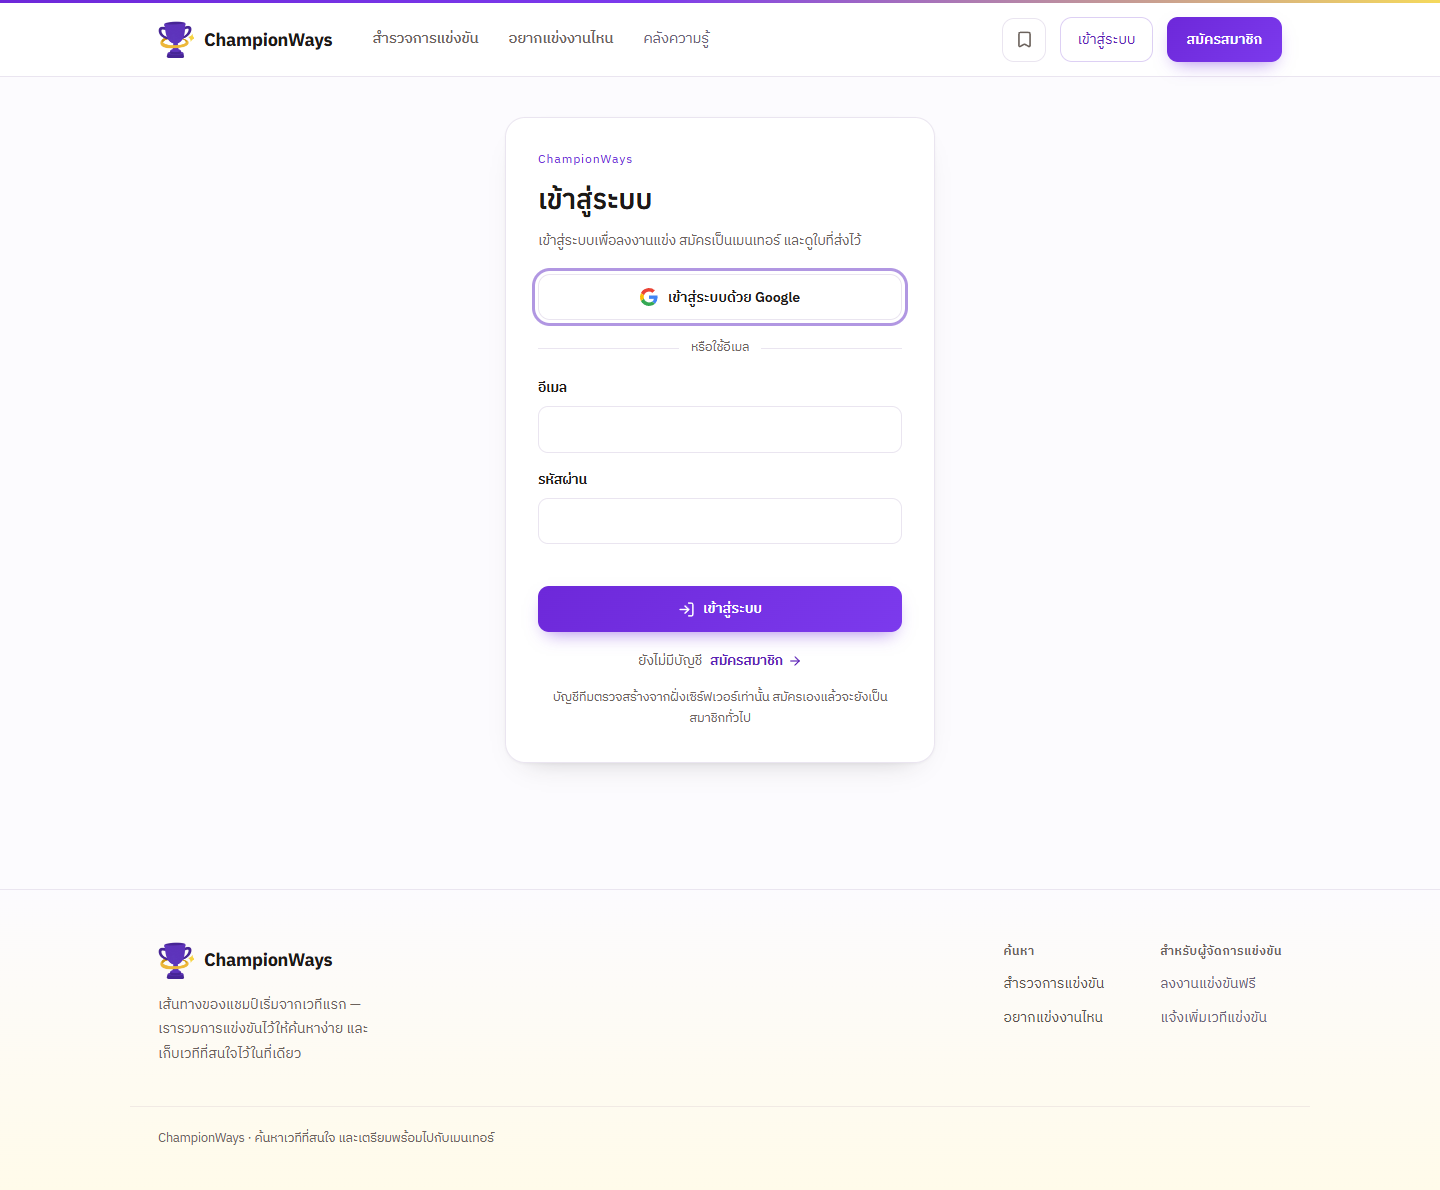
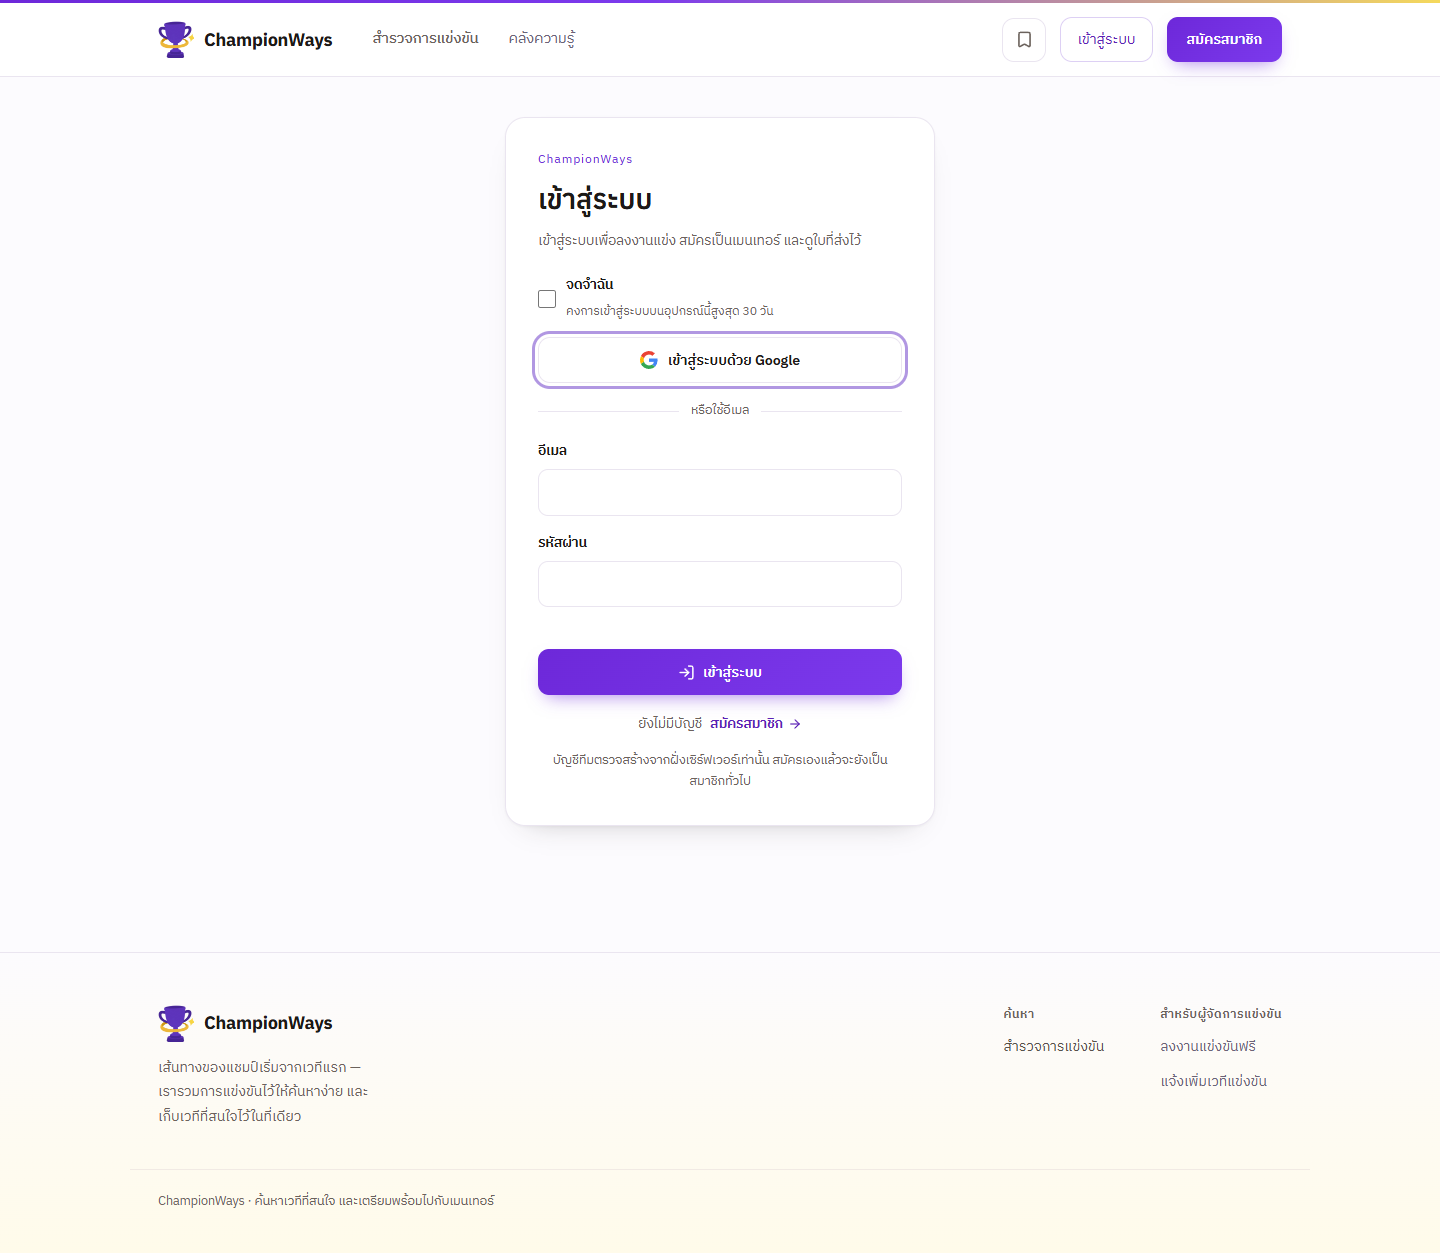
feat: add remember me for password and Google sign-in

diff --git a/server/routes/auth.ts b/server/routes/auth.ts
@@ -15,7 +15,7 @@ import { safeNext } from '../../src/lib/safe-next.js';
 import { hashPassword, passwordProblem, verifyPassword, wasteTime } from '../lib/password.js';
 import {
   clearSessionCookie, createSession, destroyAllSessions, destroySession, pruneSessions,
-  sessionIdFrom, setSessionCookie,
+  sessionIdFrom, setSessionCookie, sessionRemembers,
 } from '../lib/session.js';
 import { files as filesTable } from '../db/schema.js';
 import { fileUrl } from '../lib/files.js';
@@ -42,6 +42,7 @@ const credentials = z.object({
 const signupBody = credentials.extend({
   name: z.string().trim().min(1, 'กรอกชื่อที่ใช้แสดง').max(80),
 });
+const loginBody = credentials.extend({ remember: z.boolean().default(false) });
 
 /** รูปบัญชีที่ส่งออกไปหน้าเว็บ ไม่มีแฮชรหัสผ่านและรหัส Google ปนไปด้วย */
 function publicUser(row: typeof users.$inferSelect) {
@@ -93,7 +94,7 @@ auth.post('/signup', async (c) => {
 });
 
 auth.post('/login', async (c) => {
-  const parsed = credentials.safeParse(await c.req.json().catch(() => ({})));
+  const parsed = loginBody.safeParse(await c.req.json().catch(() => ({})));
   if (!parsed.success) throw new HTTPException(400, { message: firstIssue(parsed.error) });
   const { email, password } = parsed.data;
 
@@ -111,8 +112,8 @@ auth.post('/login', async (c) => {
   }
 
   await pruneSessions();
-  const session = await createSession(found.id);
-  setSessionCookie(c, session.id, session.expiresAt);
+  const session = await createSession(found.id, parsed.data.remember);
+  setSessionCookie(c, session.id, session.expiresAt, parsed.data.remember);
   return c.json({ user: publicUser(found) });
 });
 
@@ -244,9 +245,10 @@ auth.post('/password', requireUser, async (c) => {
 
   /* เปลี่ยนรหัสผ่านแล้วต้องเตะอุปกรณ์อื่นออก ไม่อย่างนั้นคนที่แอบใช้บัญชีอยู่จะยังอยู่ต่อได้
      แล้วออกคุกกี้ใหม่ให้เครื่องที่เพิ่งเปลี่ยน จะได้ไม่ต้องล็อกอินซ้ำทันที */
+  const remember = await sessionRemembers(sessionIdFrom(c));
   await destroyAllSessions(user.id);
-  const session = await createSession(user.id);
-  setSessionCookie(c, session.id, session.expiresAt);
+  const session = await createSession(user.id, remember);
+  setSessionCookie(c, session.id, session.expiresAt, remember);
 
   return c.json({ user: publicUser(updated) });
 });
@@ -256,6 +258,7 @@ auth.post('/password', requireUser, async (c) => {
 const STATE_COOKIE = 'cw_oauth_state';
 const VERIFIER_COOKIE = 'cw_oauth_verifier';
 const NEXT_COOKIE = 'cw_oauth_next';
+const REMEMBER_COOKIE = 'cw_oauth_remember';
 const shortCookie = () => ({
   httpOnly: true, sameSite: 'Lax' as const, secure: env.isProduction, path: '/', maxAge: 600,
 });
@@ -270,6 +273,7 @@ auth.get('/google', (c) => {
   setCookie(c, STATE_COOKIE, state, shortCookie());
   setCookie(c, VERIFIER_COOKIE, verifier, shortCookie());
   setCookie(c, NEXT_COOKIE, safeNext(c.req.query('next')), shortCookie());
+  setCookie(c, REMEMBER_COOKIE, c.req.query('remember') === '1' ? '1' : '0', shortCookie());
   return c.redirect(authorizeUrl(state, challenge));
 });
 
@@ -279,7 +283,8 @@ auth.get('/google/callback', async (c) => {
 
   const state = getCookie(c, STATE_COOKIE);
   const verifier = getCookie(c, VERIFIER_COOKIE);
-  for (const name of [STATE_COOKIE, VERIFIER_COOKIE, NEXT_COOKIE]) deleteCookie(c, name, shortCookie());
+  const remember = getCookie(c, REMEMBER_COOKIE) === '1';
+  for (const name of [STATE_COOKIE, VERIFIER_COOKIE, NEXT_COOKIE, REMEMBER_COOKIE]) deleteCookie(c, name, shortCookie());
 
   if (c.req.query('error')) return fail('ยกเลิกการเข้าสู่ระบบด้วย Google');
   // state ที่ไม่ตรงแปลว่าคำขอนี้ไม่ได้เริ่มจากเว็บเรา
@@ -327,7 +332,7 @@ auth.get('/google/callback', async (c) => {
   }
 
   await pruneSessions();
-  const session = await createSession(account.id);
-  setSessionCookie(c, session.id, session.expiresAt);
+  const session = await createSession(account.id, remember);
+  setSessionCookie(c, session.id, session.expiresAt, remember);
   return c.redirect(`${env.appOrigin}${next}`);
 });

diff --git a/tests/auth.spec.ts b/tests/auth.spec.ts
@@ -7,21 +7,32 @@ test('Google sign-in is visible on both auth pages and preserves the return path
   await page.goto('/signin?next=%2Fmentors%2Fapply');
   const google = page.getByRole('link', { name: 'เข้าสู่ระบบด้วย Google' });
   await expect(google).toBeVisible();
-  await expect(google).toHaveAttribute('href', '/api/auth/google?next=%2Fmentors%2Fapply');
+  await expect(google).toHaveAttribute('href', '/api/auth/google?next=%2Fmentors%2Fapply&remember=0');
   await google.focus();
   await expect(google).toBeFocused();
   expect((await new AxeBuilder({ page }).include('main').withTags(['wcag2a', 'wcag2aa', 'wcag21aa']).analyze()).violations).toEqual([]);
   expect(await page.evaluate(() => document.documentElement.scrollWidth <= innerWidth)).toBe(true);
   await page.screenshot({ path: `artifacts/signin-${info.project.name}.png`, fullPage: true });
   await page.locator('main').getByRole('link', { name: 'สมัครสมาชิก', exact: true }).click();
-  await expect(google).toHaveAttribute('href', '/api/auth/google?next=%2Fmentors%2Fapply');
+  await expect(google).toHaveAttribute('href', '/api/auth/google?next=%2Fmentors%2Fapply&remember=0');
 });
 
 test('cancelled login explains the error and retry retains the destination', async ({ page }) => {
   await page.route('**/api/auth/providers', route => route.fulfill({ json: { google: true } }));
   await page.goto(`/signin?error=${encodeURIComponent('ยกเลิกการเข้าสู่ระบบด้วย Google')}&next=%2Fmentors%2Fapply`);
   await expect(page.getByRole('alert')).toContainText('ยกเลิกการเข้าสู่ระบบด้วย Google');
-  await expect(page.getByRole('link', { name: 'เข้าสู่ระบบด้วย Google' })).toHaveAttribute('href', '/api/auth/google?next=%2Fmentors%2Fapply');
+  await expect(page.getByRole('link', { name: 'เข้าสู่ระบบด้วย Google' })).toHaveAttribute('href', '/api/auth/google?next=%2Fmentors%2Fapply&remember=0');
   await page.goto('/signin?next=%2F%5Coutside.example');
-  await expect(page.getByRole('link', { name: 'เข้าสู่ระบบด้วย Google' })).toHaveAttribute('href', '/api/auth/google?next=%2F');
+  await expect(page.getByRole('link', { name: 'เข้าสู่ระบบด้วย Google' })).toHaveAttribute('href', '/api/auth/google?next=%2F&remember=0');
+});
+test('remember me starts unchecked and is passed to Google', async ({ page }) => {
+  await page.route('**/api/auth/providers', route => route.fulfill({ json: { google: true } }));
+  await page.goto('/signin');
+  const remember = page.getByRole('checkbox', { name: /จดจำฉัน/ });
+  await expect(remember).not.toBeChecked();
+  await remember.focus();
+  await page.keyboard.press('Space');
+  await expect(remember).toBeChecked();
+  await expect(page.getByRole('link', { name: 'เข้าสู่ระบบด้วย Google' })).toHaveAttribute('href', /remember=1/);
+  expect(await page.evaluate(() => document.documentElement.scrollWidth <= innerWidth)).toBe(true);
 });

diff --git a/src/pages/SignIn.tsx b/src/pages/SignIn.tsx
@@ -18,6 +18,7 @@ export function SignIn({ mode }: { mode: 'signin' | 'signup' }) {
   const [password, setPassword] = useState('');
   const [message, setMessage] = useState(params.get('error') ?? '');
   const [busy, setBusy] = useState(false);
+  const [remember, setRemember] = useState(false);
 
   const next = safeNext(params.get('next'));
   const signup = mode === 'signup';
@@ -37,7 +38,7 @@ export function SignIn({ mode }: { mode: 'signin' | 'signup' }) {
     setBusy(true);
     try {
       if (signup) await signUp(name.trim(), email.trim(), password);
-      else await signIn(email.trim(), password);
+      else await signIn(email.trim(), password, remember);
       navigate(next, { replace: true });
     } catch (error) {
       // ไม่ใช่ ApiError แปลว่าไม่ได้รับคำตอบกลับมาเลย คนละเรื่องกับเซิร์ฟเวอร์ตอบว่าผิดพลาด
@@ -57,9 +58,14 @@ export function SignIn({ mode }: { mode: 'signin' | 'signup' }) {
           : 'เข้าสู่ระบบเพื่อลงงานแข่ง สมัครเป็นเมนเทอร์ และดูใบที่ส่งไว้'}
       </p>
 
+      {!signup && <label className="auth-remember">
+        <input type="checkbox" checked={remember} onChange={event => setRemember(event.target.checked)} disabled={busy} />
+        <span>จดจำฉัน<small>คงการเข้าสู่ระบบบนอุปกรณ์นี้สูงสุด 30 วัน</small></span>
+      </label>}
+
       {googleEnabled && <>
         {/* ลิงก์ธรรมดา ไม่ใช่ fetch เพราะต้องให้เบราว์เซอร์พาไปหน้า Google จริง */}
-        <a className="google-button" href={`/api/auth/google?next=${encodeURIComponent(next)}`}>
+        <a className="google-button" href={`/api/auth/google?next=${encodeURIComponent(next)}&remember=${remember ? '1' : '0'}`}>
           <GoogleMark />เข้าสู่ระบบด้วย Google
         </a>
         <p className="auth-divider"><span>หรือใช้อีเมล</span></p>

diff --git a/scripts/auth-google.test.ts b/scripts/auth-google.test.ts
@@ -32,8 +32,8 @@ globalThis.fetch = async (input, init) => {
   }
   throw new Error('Unexpected external request in OAuth test');
 };
-async function start(next = '/mentors/apply') {
-  const response = await app.request(`/api/auth/google?next=${encodeURIComponent(next)}`);
+async function start(next = '/mentors/apply', remember = false) {
+  const response = await app.request(`/api/auth/google?next=${encodeURIComponent(next)}&remember=${remember ? '1' : '0'}`);
   assert.equal(response.status, 302);
   const url = new URL(response.headers.get('location')!);
   const cookies = response.headers.getSetCookie();
@@ -62,6 +62,7 @@ test('Google authorization and callback against isolated test database', async t
       profile = { sub: `${prefix}-sub`, email: emails[0], email_verified: true, name: 'Google Test' };
       const flow = await start();
       const response = await finish(flow);
+      assert.equal(response.headers.getSetCookie().find(c => c.startsWith('cw_session='))!.includes('Expires='), false);
       assert.equal(response.headers.get('location'), `${process.env.APP_ORIGIN}/mentors/apply`);
       assert.equal(createHash('sha256').update(sentVerifier).digest('base64url'), flow.url.searchParams.get('code_challenge'));
       assert.ok(response.headers.getSetCookie().filter(c => c.startsWith('cw_oauth_')).every(c => c.includes('Max-Age=0')));
@@ -70,7 +71,8 @@ test('Google authorization and callback against isolated test database', async t
       const me = await (await app.request('/api/auth/me', { headers: { cookie } })).json();
       assert.equal(me.user.role, 'member');
       assert.equal(me.user.email, emails[0]);
-      const again = await finish(await start());
+      const again = await finish(await start('/mentors/apply', true));
+      assert.equal(again.headers.getSetCookie().find(c => c.startsWith('cw_session='))!.includes('Expires='), true);
       assert.ok(sessionCookie(again));
       assert.equal((await db.select().from(users).where(eq(users.googleId, `${prefix}-sub`))).length, 1);
       assert.equal((await app.request('/api/auth/logout', { method: 'POST', headers: { cookie } })).status, 200);

diff --git a/scripts/profile-api.test.ts b/scripts/profile-api.test.ts
@@ -41,6 +41,24 @@ const send = (path: string, cookie: string, method: string, body: unknown) =>
 
 test('editing your own profile, email and password', async (t) => {
   try {
+    await t.test('remember me controls cookie persistence and database expiry', async () => {
+      const me = await makeUser();
+      for (const remember of [false, true]) {
+        const response = await send('/api/auth/login', '', 'POST', { email: me.row.email, password: 'start-password-1', remember });
+        assert.equal(response.status, 200);
+        const cookie = response.headers.getSetCookie().find(value => value.startsWith('cw_session='))!;
+        assert.equal(cookie.includes('Expires='), remember);
+        assert.ok(cookie.includes('HttpOnly') && cookie.includes('SameSite=Lax'));
+        const token = cookie.split(';')[0].slice('cw_session='.length);
+        const [session] = await db.select().from(sessions).where(eq(sessions.id, token));
+        const remaining = session.expiresAt.getTime() - Date.now();
+        const ttl = remember ? 30 * 86400000 : 8 * 3600000;
+        assert.ok(remaining > ttl - 10000 && remaining <= ttl);
+        const changed = await send('/api/auth/password', `cw_session=${token}`, 'POST', { current: 'start-password-1', next: 'start-password-1' });
+        assert.equal(changed.status, 200);
+        assert.equal(changed.headers.getSetCookie().find(value => value.startsWith('cw_session='))!.includes('Expires='), remember);
+      }
+    });
     await t.test('saves the profile block and hands back the updated account', async () => {
       const me = await makeUser();
       const response = await send('/api/auth/profile', me.cookie, 'PATCH', {

diff --git a/src/data/auth.tsx b/src/data/auth.tsx
@@ -26,7 +26,7 @@ type AuthState = {
   /** ติดต่อเซิร์ฟเวอร์ไม่ได้ ต่างจาก "ยังไม่ล็อกอิน" ซึ่งเซิร์ฟเวอร์ตอบว่า user เป็น null */
   unreachable: boolean;
   googleEnabled: boolean;
-  signIn: (email: string, password: string) => Promise<void>;
+  signIn: (email: string, password: string, remember?: boolean) => Promise<void>;
   signUp: (name: string, email: string, password: string) => Promise<void>;
   signOut: () => Promise<void>;
   /** ใช้หลังบันทึกโปรไฟล์ เพื่อให้ชื่อบนหัวเว็บเปลี่ยนตามทันทีโดยไม่ต้องรีโหลดหน้า */
@@ -64,8 +64,8 @@ export function AuthProvider({ children }: { children: ReactNode }) {
     return () => { cancelled = true; };
   }, []);
 
-  const signIn = useCallback(async (email: string, password: string) => {
-    const { user: account } = await post<{ user: Account }>('/auth/login', { email, password });
+  const signIn = useCallback(async (email: string, password: string, remember = false) => {
+    const { user: account } = await post<{ user: Account }>('/auth/login', { email, password, remember });
     setUser(account);
     setUnreachable(false);
   }, []);

diff --git a/server/lib/session.ts b/server/lib/session.ts
@@ -26,9 +26,9 @@ export type SessionUser = {
   googleLinked: boolean;
 };
 
-export async function createSession(userId: string) {
+export async function createSession(userId: string, remember = true) {
   const id = newToken();
-  const expiresAt = new Date(Date.now() + TTL_DAYS * 86400000);
+  const expiresAt = new Date(Date.now() + (remember ? TTL_DAYS * 86400000 : 8 * 3600000));
   await db.insert(sessions).values({ id, userId, expiresAt });
   return { id, expiresAt };
 }
@@ -72,8 +72,13 @@ const cookieOptions = () => ({
   path: '/',
 });
 
-export function setSessionCookie(c: Context, id: string, expiresAt: Date) {
-  setCookie(c, SESSION_COOKIE, id, { ...cookieOptions(), expires: expiresAt });
+export function setSessionCookie(c: Context, id: string, expiresAt: Date, remember = true) {
+  setCookie(c, SESSION_COOKIE, id, { ...cookieOptions(), ...(remember ? { expires: expiresAt } : {}) });
+}
+
+export async function sessionRemembers(id: string) {
+  const [session] = await db.select().from(sessions).where(eq(sessions.id, id));
+  return !!session && session.expiresAt.getTime() - session.createdAt.getTime() > 86400000;
 }
 
 export function clearSessionCookie(c: Context) {

diff --git a/src/styles.css b/src/styles.css
@@ -971,3 +971,5 @@ a.account-name:hover { color: var(--purple-deep); text-decoration: underline; }
   .filter-foot { flex-wrap: wrap; }
   .filter-foot .ghost-button { flex: 1; justify-content: center; }
 }
+.auth-card .auth-remember { display: flex; align-items: flex-start; gap: 10px; cursor: pointer; }
+.auth-card .auth-remember input { width: 18px; height: 18px; margin: 3px 0 0; padding: 0; flex: 0 0 auto; accent-color: var(--purple); }

diff --git a/markdown/SYSTEM-OVERVIEW.md b/markdown/SYSTEM-OVERVIEW.md
@@ -35,7 +35,7 @@
 
 - สมัครด้วยชื่อแสดง อีเมล รหัสผ่าน หรือใช้ Google login
 - อีเมล trim และแปลงเป็นตัวพิมพ์เล็กก่อนตรวจซ้ำ รหัสผ่านเก็บเป็น hash ด้วย scrypt และ salt ไม่เก็บเป็นข้อความอ่านได้
-- ล็อกอินสำเร็จสร้าง session ในฐานข้อมูล อายุ 30 วัน ใช้ cookie แบบ HttpOnly, SameSite=Lax และ Secure เมื่อเป็น production
+- ล็อกอินด้วยอีเมลหรือ Google มี “จดจำฉัน” เริ่มต้นไม่เลือก: หากเลือกสร้าง session และ cookie อายุสูงสุด 30 วัน หากไม่เลือกใช้ session cookie ที่ไม่กำหนดวันหมดอายุในเบราว์เซอร์ และจำกัด session ในฐานข้อมูลสูงสุด 8 ชั่วโมง ใช้ HttpOnly, SameSite=Lax และ Secure เมื่อเป็น production การเปลี่ยนรหัสผ่านรักษาตัวเลือกนี้ไว้
 - Logout ยกเลิก session จริง ไม่ใช่เพียงซ่อนข้อมูลหน้าเว็บ
 - หากเข้าสู่ระบบระหว่างขอจอง ให้เก็บปลายทางภายในเว็บเพื่อกลับมาที่งาน/เมนเทอร์เดิม ไม่เปิด redirect ออกเว็บภายนอกตามค่าที่ส่งมา
 - ข้อมูลตอบกลับหน้าเว็บไม่รวม password hash หรือรหัส Google ภายใน
